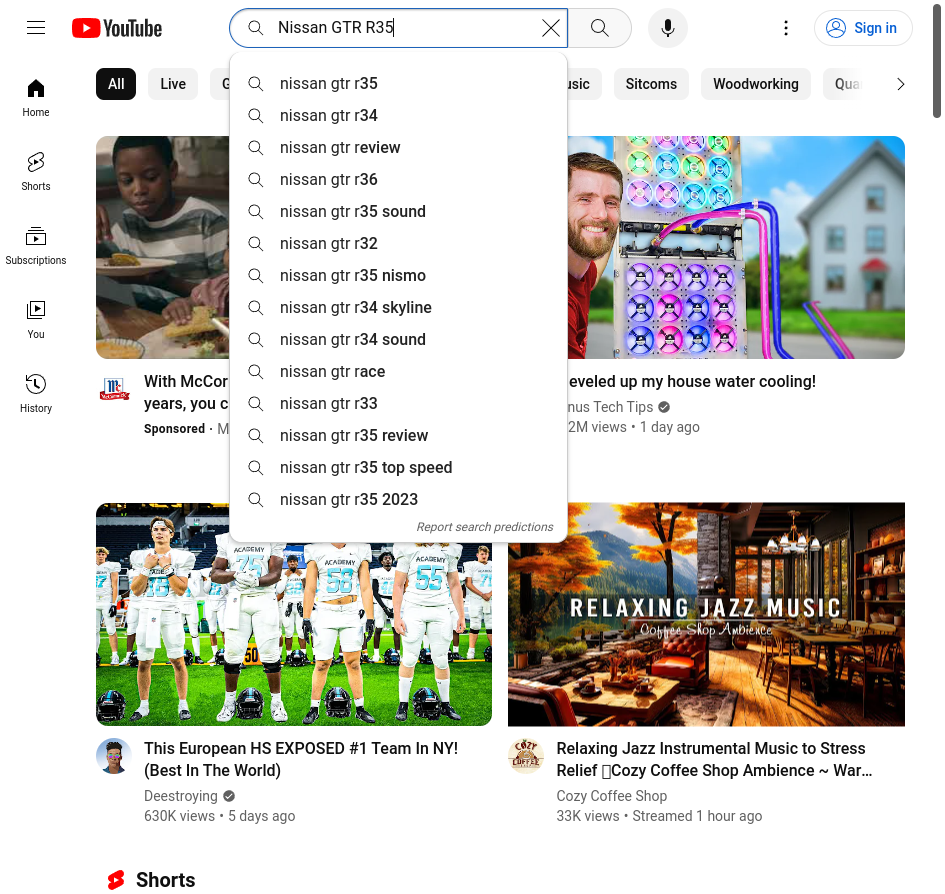
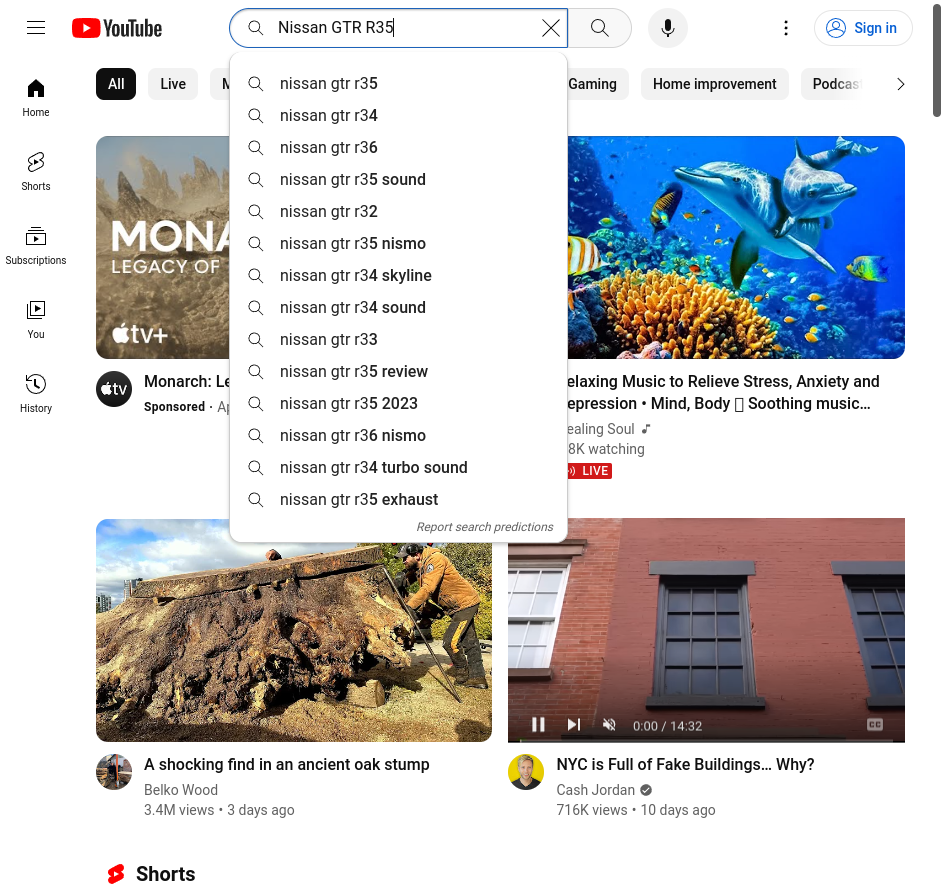
Clicking interface test

diff --git a/dist/index.js b/dist/index.js
@@ -2,13 +2,18 @@ const puppeteer = require('puppeteer-extra');
 const StealthPlugin = require('puppeteer-extra-plugin-stealth');
 puppeteer.use(StealthPlugin());
 const url = 'https://www.youtube.com/';
-const searchTermCLI = process.argv.length > 2 ? process.argv[2] : 'Nissan GTR R35';
+const searchTermCLI = process.argv.length > 2 ? process.argv[2] : "Nissan GTR R35";
 (async () => {
     const browser = await puppeteer.launch({ headless: false });
     const page = await browser.newPage();
     await page.goto(url);
     await page.waitForSelector('#search-input #search');
     await page.type('#search-input #search', searchTermCLI, { delay: 200 });
-    await page.screenshot({ path: './youtube-test.png' });
+    await Promise.all([
+        page.waitForNavigation(),
+        page.click('#search-icon-legacy'),
+    ]);
+    await page.waitForSelector('ytd-video-renderer h3 a#video-title');
+    await page.screenshot({ path: './youtube-click.png' });
     await browser.close();
 })();

diff --git a/index.ts b/index.ts
@@ -21,7 +21,13 @@ const searchTermCLI = process.argv.length > 2 ? process.argv[2] : "Nissan GTR R3
   await page.waitForSelector('#search-input #search');
   await page.type('#search-input #search', searchTermCLI, {delay: 200});
 
- await page.screenshot({path: './youtube-test.png'});
+  await Promise.all([
+    page.waitForNavigation(),
+    page.click('#search-icon-legacy'),
+  ])
+
+  await page.waitForSelector('ytd-video-renderer h3 a#video-title');
+  await page.screenshot({path: './youtube-click.png'});
 
  await browser.close();
 })();
